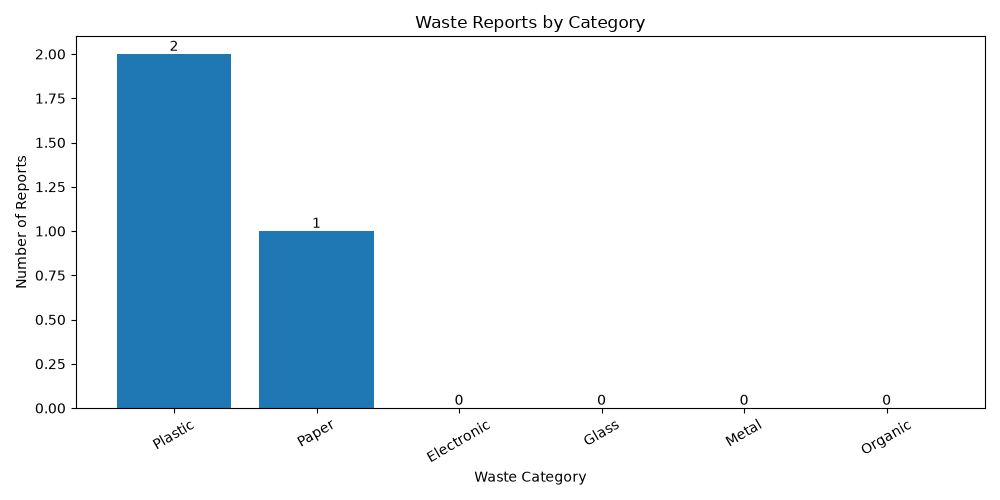
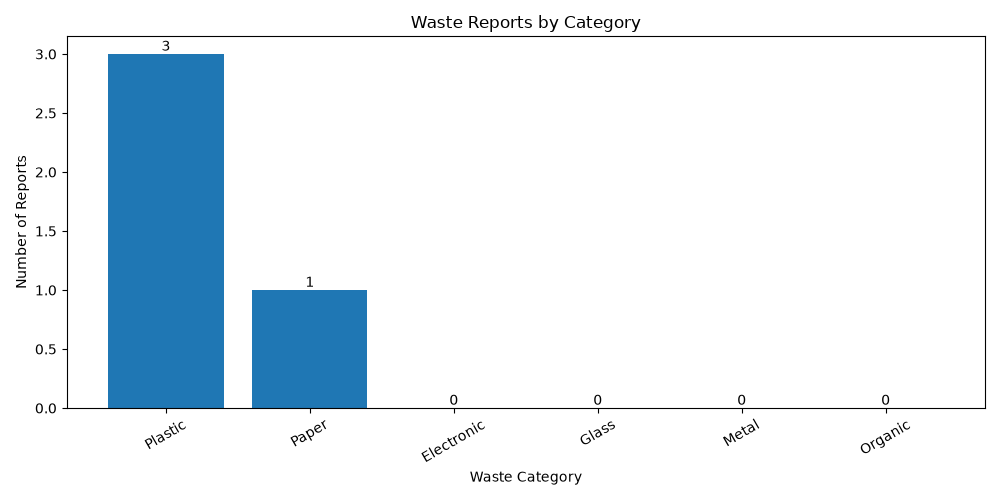
Add Python data analysis dashboard

diff --git a/backend/src/main/resources/static/index.html b/backend/src/main/resources/static/index.html
@@ -26,6 +26,7 @@
     <a href="#contact">Contact</a>
     <a href="#staffManagement">Staff Management</a>
     <a href="#adminDashboard">Admin Dashboard</a>
+    <a href="#analysisDashboard">Data Analysis</a>
 </nav>
 
 <main>
@@ -354,9 +355,61 @@
         <input type="text" id="searchRecord"
                placeholder="Search by Record ID, Request ID or Staff ID">
         <div id="adminRecords"></div>
-    </section>
+    
+</section>
 
-    <!-- SERVICES -->
+<!-- PYTHON DATA ANALYSIS DASHBOARD -->
+<section id="analysisDashboard">
+    <h2>Environmental Data Analysis</h2>
+
+    <p>
+        Analyze waste collection data using Python,
+        Pandas and Matplotlib.
+    </p>
+
+    <button type="button" id="refreshAnalysisButton">
+        Refresh Analysis
+    </button>
+
+    <p id="analysisMessage"></p>
+
+    <div class="analysis-container">
+
+        <div class="analysis-card">
+            <h3>Waste Category Analysis</h3>
+            <img id="wasteCategoryChart"
+                 alt="Waste category analysis chart">
+        </div>
+
+        <div class="analysis-card">
+            <h3>Staff Performance</h3>
+            <img id="staffPerformanceChart"
+                 alt="Staff performance chart">
+        </div>
+
+        <div class="analysis-card">
+            <h3>Quantity by Category</h3>
+            <img id="quantityCategoryChart"
+                 alt="Waste quantity by category chart">
+        </div>
+
+        <div class="analysis-card">
+            <h3>Request Status Analysis</h3>
+            <img id="requestStatusChart"
+                 alt="Request status chart">
+        </div>
+
+        <div class="analysis-card">
+            <h3>Area-wise Collection</h3>
+            <img id="areaCollectionChart"
+                 alt="Area-wise collection chart">
+        </div>
+
+    </div>
+</section>
+
+<!-- SERVICES -->
+
     <section id="services">
         <h2>Our Services</h2>
 

diff --git a/backend/src/main/resources/static/script.js b/backend/src/main/resources/static/script.js
@@ -868,3 +868,61 @@ document.addEventListener("DOMContentLoaded", async function() {
     await loadStaff();
     await loadAdminData();
 });
+
+// =====================================
+// PYTHON DATA ANALYSIS DASHBOARD
+// =====================================
+
+const refreshAnalysisButton =
+    document.getElementById("refreshAnalysisButton");
+
+refreshAnalysisButton.addEventListener("click", async function () {
+
+    const message = document.getElementById("analysisMessage");
+
+    message.textContent = "Refreshing analysis... Please wait.";
+
+    refreshAnalysisButton.disabled = true;
+
+    try {
+
+        const response = await fetch("/api/analysis/refresh", {
+            method: "POST"
+        });
+
+        const result = await response.json();
+
+        if (!response.ok || !result.success) {
+            throw new Error(result.message || "Analysis failed");
+        }
+
+        const timestamp = new Date().getTime();
+
+        document.getElementById("wasteCategoryChart").src =
+            "/api/analysis/charts/waste_category_analysis.png?t=" + timestamp;
+
+        document.getElementById("staffPerformanceChart").src =
+            "/api/analysis/charts/staff_performance.png?t=" + timestamp;
+
+        document.getElementById("quantityCategoryChart").src =
+            "/api/analysis/charts/quantity_by_category.png?t=" + timestamp;
+
+        document.getElementById("requestStatusChart").src =
+            "/api/analysis/charts/request_status_analysis.png?t=" + timestamp;
+
+        document.getElementById("areaCollectionChart").src =
+            "/api/analysis/charts/area_wise_collection.png?t=" + timestamp;
+
+        message.textContent = "Analysis refreshed successfully!";
+
+    } catch (error) {
+
+        message.textContent = "Error: " + error.message;
+
+    } finally {
+
+        refreshAnalysisButton.disabled = false;
+
+    }
+
+});

diff --git a/backend/src/main/resources/static/style.css b/backend/src/main/resources/static/style.css
@@ -471,3 +471,58 @@ footer {
         min-width: 600px;
     }
 }
+
+/* =====================================
+   PYTHON DATA ANALYSIS DASHBOARD
+===================================== */
+
+.analysis-container {
+    display: grid;
+    grid-template-columns: repeat(auto-fit, minmax(280px, 1fr));
+    gap: 25px;
+    margin-top: 25px;
+}
+
+.analysis-card {
+    background: #ffffff;
+    padding: 20px;
+    border-radius: 12px;
+    box-shadow: 0 3px 12px rgba(0, 0, 0, 0.10);
+    text-align: center;
+}
+
+.analysis-card h3 {
+    color: #246b45;
+    margin-bottom: 15px;
+}
+
+.analysis-card img {
+    width: 100%;
+    height: auto;
+    object-fit: contain;
+    border-radius: 8px;
+}
+
+#refreshAnalysisButton {
+    background-color: #218838;
+    color: white;
+    padding: 12px 22px;
+    border: none;
+    border-radius: 6px;
+    cursor: pointer;
+    font-size: 16px;
+}
+
+#refreshAnalysisButton:hover {
+    background-color: #176b2c;
+}
+
+#refreshAnalysisButton:disabled {
+    opacity: 0.6;
+    cursor: not-allowed;
+}
+
+#analysisMessage {
+    margin-top: 12px;
+    font-weight: bold;
+}

diff --git a/backend/src/main/java/com/wastecollection/waste_management/AnalysisController.java b/backend/src/main/java/com/wastecollection/waste_management/AnalysisController.java
@@ -1,0 +1,126 @@
+
+package com.wastecollection.waste_management;
+
+import java.nio.file.Files;
+import java.nio.file.Path;
+import java.util.HashMap;
+import java.util.Map;
+import java.util.Set;
+
+import org.springframework.core.io.FileSystemResource;
+import org.springframework.core.io.Resource;
+import org.springframework.http.MediaType;
+import org.springframework.http.ResponseEntity;
+import org.springframework.web.bind.annotation.GetMapping;
+import org.springframework.web.bind.annotation.PathVariable;
+import org.springframework.web.bind.annotation.PostMapping;
+import org.springframework.web.bind.annotation.RequestMapping;
+import org.springframework.web.bind.annotation.RestController;
+
+@RestController
+@RequestMapping("/api/analysis")
+public class AnalysisController {
+
+    private final Path projectRoot = findProjectRoot();
+
+    private final Path outputDirectory =
+        projectRoot.resolve("python-analysis/output");
+
+    private static Path findProjectRoot() {
+        Path current = Path.of("").toAbsolutePath();
+
+        if (Files.exists(current.resolve("python-analysis/analysis.py"))) {
+            return current;
+        }
+
+        return current.getParent();
+    }
+
+    private final Set<String> allowedCharts = Set.of(
+        "area_wise_collection.png",
+        "quantity_by_category.png",
+        "request_status_analysis.png",
+        "staff_performance.png",
+        "waste_category_analysis.png"
+    );
+
+    @PostMapping("/refresh")
+    public Map<String, Object> refreshAnalysis() {
+
+        Map<String, Object> response = new HashMap<>();
+
+        try {
+            Path scriptPath =
+                projectRoot.resolve("python-analysis/analysis.py");
+
+            String pythonCommand;
+
+            if (Files.exists(Path.of("/opt/venv/bin/python"))) {
+                pythonCommand = "/opt/venv/bin/python";
+            } else {
+                pythonCommand = "python";
+            }
+
+            ProcessBuilder builder = new ProcessBuilder(
+                pythonCommand,
+                scriptPath.toString()
+            );
+
+            builder.directory(projectRoot.toFile());
+            builder.redirectErrorStream(true);
+
+            Process process = builder.start();
+
+            StringBuilder output = new StringBuilder();
+
+            try (var reader = new java.io.BufferedReader(
+                    new java.io.InputStreamReader(
+                        process.getInputStream()))) {
+
+                String line;
+
+                while ((line = reader.readLine()) != null) {
+                    output.append(line).append("\n");
+                }
+            }
+
+            int exitCode = process.waitFor();
+
+            response.put("success", exitCode == 0);
+            response.put("message", exitCode == 0
+                ? "Analysis refreshed successfully"
+                : "Python analysis failed");
+            response.put("output", output.toString());
+
+        } catch (Exception e) {
+            response.put("success", false);
+            response.put("message", e.getMessage());
+        }
+
+        return response;
+    }
+
+    @GetMapping(
+        value = "/charts/{filename}",
+        produces = MediaType.IMAGE_PNG_VALUE
+    )
+    public ResponseEntity<Resource> getChart(
+            @PathVariable String filename) {
+
+        if (!allowedCharts.contains(filename)) {
+            return ResponseEntity.notFound().build();
+        }
+
+        Path chartPath = outputDirectory.resolve(filename);
+
+        if (!Files.exists(chartPath)) {
+            return ResponseEntity.notFound().build();
+        }
+
+        Resource resource = new FileSystemResource(chartPath);
+
+        return ResponseEntity.ok()
+            .contentType(MediaType.IMAGE_PNG)
+            .body(resource);
+    }
+}

diff --git a/python-analysis/analysis.py b/python-analysis/analysis.py
@@ -1,6 +1,10 @@
 
 import sqlite3
 import pandas as pd
+import matplotlib
+
+matplotlib.use("Agg")
+
 import matplotlib.pyplot as plt
 from pathlib import Path
 
@@ -102,7 +106,6 @@ plt.xticks(rotation=30)
 plt.tight_layout()
 
 plt.savefig(OUTPUT_DIR / "waste_category_analysis.png")
-plt.show()
 plt.close()
 
 
@@ -158,7 +161,6 @@ plt.xticks(rotation=20)
 plt.tight_layout()
 
 plt.savefig(OUTPUT_DIR / "staff_performance.png")
-plt.show()
 plt.close()
 
 
@@ -198,7 +200,6 @@ plt.xticks(rotation=30)
 plt.tight_layout()
 
 plt.savefig(OUTPUT_DIR / "quantity_by_category.png")
-plt.show()
 plt.close()
 
 
@@ -233,7 +234,6 @@ plt.ylabel("Number of Requests")
 plt.tight_layout()
 
 plt.savefig(OUTPUT_DIR / "request_status_analysis.png")
-plt.show()
 plt.close()
 
 
@@ -271,7 +271,6 @@ plt.ylabel("Collected Quantity (kg)")
 plt.tight_layout()
 
 plt.savefig(OUTPUT_DIR / "area_wise_collection.png")
-plt.show()
 plt.close()
 
 
